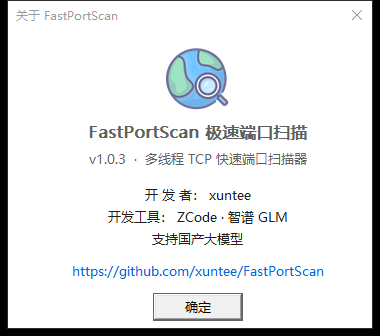
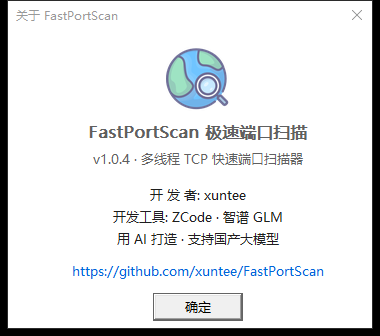
标题栏显示版本号、网卡下拉 IP 在前、界面冒号统一英文、README 致谢与赞助说明

diff --git a/src/about.cpp b/src/about.cpp
@@ -82,15 +82,16 @@ void ShowAbout(HWND hOwner)
     HWND hTitle = MkChild(h, L"STATIC", L"FastPortScan 极速端口扫描", SS_CENTER, 0,
                           10, 90, ww-20, 24, 3);
     SendMessageW(hTitle, WM_SETFONT, (WPARAM)g_hFontBold, TRUE);
-    MkChild(h, L"STATIC", L"v1.0.3  ·  多线程 TCP 快速端口扫描器", SS_CENTER, 0,
-            10, 118, ww-20, 18, 4);
+    wchar_t ver[64];
+    _snwprintf(ver, 64, L"%s · 多线程 TCP 快速端口扫描器", K_VERSION);
+    MkChild(h, L"STATIC", ver, SS_CENTER, 0, 10, 118, ww-20, 18, 4);
 
     // 开发者信息
-    MkChild(h, L"STATIC", L"开 发 者： xuntee", SS_CENTER, 0,
+    MkChild(h, L"STATIC", L"开 发 者: xuntee", SS_CENTER, 0,
             10, 154, ww-20, 18, 0);
-    MkChild(h, L"STATIC", L"开发工具： ZCode · 智谱 GLM", SS_CENTER, 0,
+    MkChild(h, L"STATIC", L"开发工具: ZCode · 智谱 GLM", SS_CENTER, 0,
             10, 176, ww-20, 18, 0);
-    MkChild(h, L"STATIC", L"支持国产大模型", SS_CENTER, 0,
+    MkChild(h, L"STATIC", L"用 AI 打造 · 支持国产大模型", SS_CENTER, 0,
             10, 198, ww-20, 18, 0);
 
     // 仓库地址（可点击）

diff --git a/src/config.cpp b/src/config.cpp
@@ -137,9 +137,9 @@ void EnumAdapters(HWND hCombo)
             DWORD mask = prefix ? (0xFFFFFFFFu << (32 - prefix)) : 0;
             AdapterInfo ai;
             ai.ip = ip; ai.net = ip & mask; ai.bcast = ai.net | (~mask);
-            _snwprintf(tmp, 200, L"%s  —  %s/%d",
-                       p->FriendlyName ? p->FriendlyName : L"adapter",
-                       IpToW(ip, a, 24), prefix);
+            _snwprintf(tmp, 200, L"%s/%d  —  %s",
+                       IpToW(ip, a, 24), prefix,
+                       p->FriendlyName ? p->FriendlyName : L"adapter");
             ai.label = tmp;
             int idx = (int)SendMessageW(hCombo, CB_ADDSTRING, 0, (LPARAM)tmp);
             SendMessageW(hCombo, CB_SETITEMDATA, idx, (LPARAM)g_adapters.size());

diff --git a/src/common.cpp b/src/common.cpp
@@ -1,7 +1,7 @@
 // 公共定义与界面小工具
 #include "common.h"
 
-const wchar_t K_TITLE[]       = L"FastPortScan - 极速端口扫描";
+const wchar_t K_TITLE[]       = L"FastPortScan " K_VERSION L" - 极速端口扫描";
 const wchar_t K_APP_NAME[]    = L"FastPortScan";
 const wchar_t K_STR_SCAN[]    = L"开始扫描";
 const wchar_t K_STR_STOP[]    = L"停 止";

diff --git a/src/common.h b/src/common.h
@@ -47,6 +47,7 @@
 #define THREADS_MIN     1
 #define THREADS_MAX     200         // 原版上限
 
+#define K_VERSION L"v1.0.4"   // 发版时与 assets/app.rc 的 FileVersion 同步改
 extern const wchar_t K_TITLE[];
 extern const wchar_t K_APP_NAME[];
 extern const wchar_t K_STR_SCAN[];

diff --git a/README.md b/README.md
@@ -67,3 +67,20 @@ MSVC（与 CI 相同）：`rc /c 65001 /fo app.res assets\app.rc` 后
     closesocket；开放则结果框追加 "%d.%d.%d.%d: %d"
     InterlockedIncrement 计数 → 进度条 / ETA
 ```
+
+## 开发工具与致谢
+
+本项目由 [xuntee](https://github.com/xuntee) 独立完成，全程使用国产 AI 编程工具
+**ZCode**（内置 **智谱 GLM** 大模型）AI 结对开发：原版逆向分析 → C++/Win32 重写 →
+图标与资源打包 → CI 自动发布，一条龙由 AI 辅助完成。
+
+- 智谱开放平台：<https://open.bigmodel.cn>
+
+## 赞助 / 合作
+
+- **寻求赞助与联合宣传**：如果你是智谱 / ZCode / 国产大模型相关团队，看中
+  "AI 独立交付一个完整桌面软件"这个案例，欢迎提
+  [Issue](https://github.com/xuntee/FastPortScan/issues) 聊合作、案例收录或赞助。
+- **请作者喝杯咖啡**：如果这个工具帮到了你，欢迎赞助支持（在此放置你的
+  微信/支付宝收款码或链接）。
+
